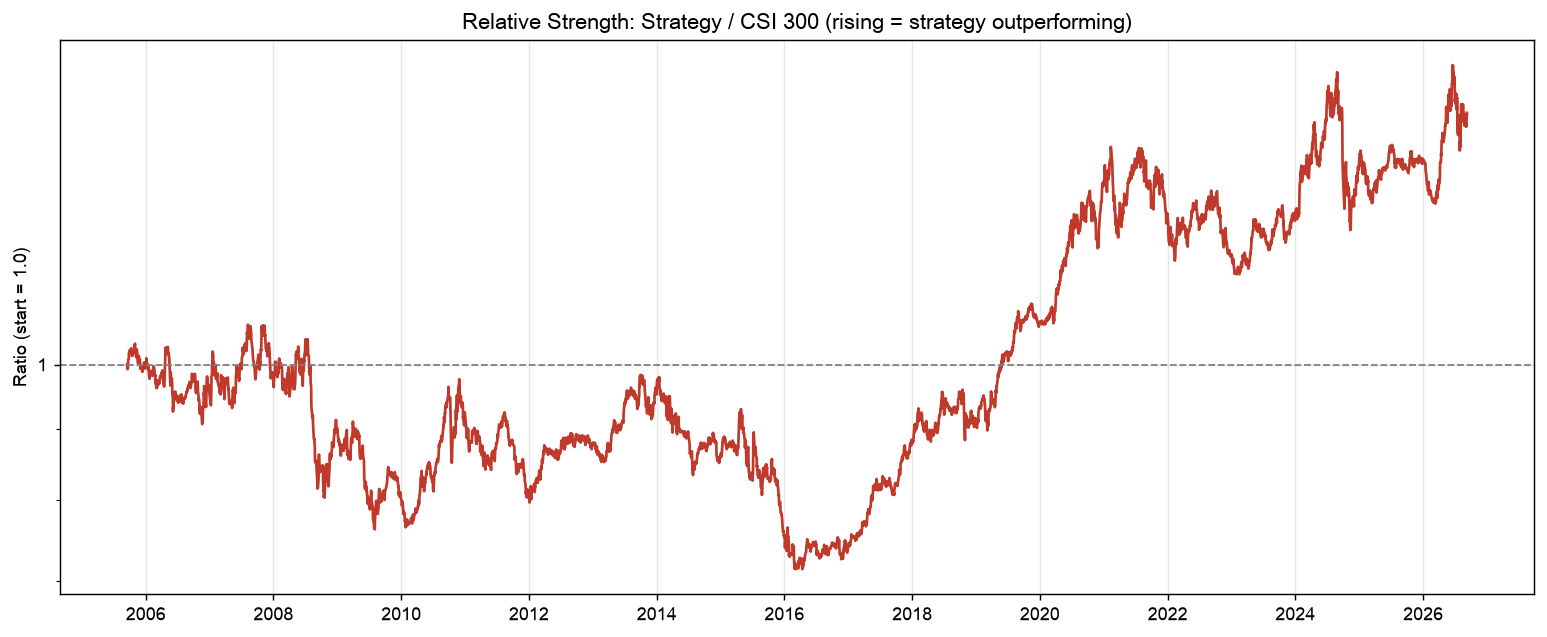
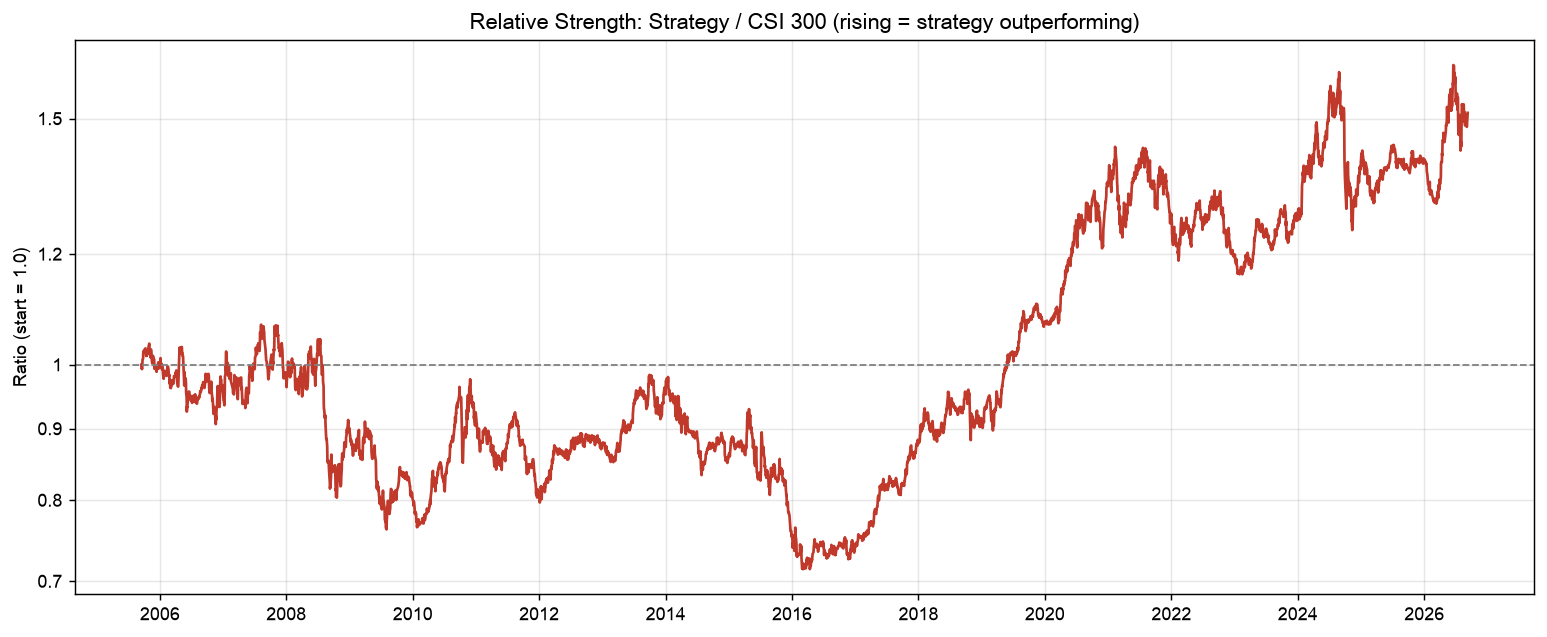
Plain-number log axes on charts; stale per-date outputs cleared per run; report caveats on weights and announcement dates

diff --git a/src/plots.py b/src/plots.py
@@ -87,11 +87,11 @@ def draw_candles(ax, ohlc: pd.DataFrame, title: str, ma: Optional[pd.DataFrame] 
     ax.set_ylabel("Index level")
 
 
-def _plain_log_axis(ax) -> None:
+def _plain_log_axis(ax, minor=(1500, 2000, 3000, 5000, 7000), fmt="{:,.0f}") -> None:
     """Log y-axis with plain numbers (1000, 2000, ...) instead of 10^3 notation."""
     ax.set_yscale("log")
-    ax.yaxis.set_major_formatter(mticker.FuncFormatter(lambda v, _: f"{v:,.0f}"))
-    ax.yaxis.set_minor_formatter(mticker.FuncFormatter(lambda v, _: f"{v:,.0f}" if v in (1500, 2000, 3000, 5000, 7000) else ""))
+    ax.yaxis.set_major_formatter(mticker.FuncFormatter(lambda v, _: fmt.format(v)))
+    ax.yaxis.set_minor_formatter(mticker.FuncFormatter(lambda v, _: fmt.format(v) if any(abs(v - m) < 1e-9 * max(1.0, abs(m)) for m in minor) else ""))
 
 
 def candlestick_chart(ohlc: pd.DataFrame, title: str, path: Path, ma: Optional[pd.DataFrame] = None, log_scale: bool = False) -> Path:
@@ -131,7 +131,7 @@ def growth_of_100(levels: pd.DataFrame, path: Path, log_scale: bool = False, net
     ax.set_ylabel("Growth of ¥100" + (" (log scale)" if log_scale else ""))
     ax.set_xlabel("Date")
     if log_scale:
-        ax.set_yscale("log")
+        _plain_log_axis(ax, minor=(150, 200, 300, 400, 500, 600, 700, 800, 900, 1500, 2000))
     ax.set_title("Growth of ¥100: CSI 300 vs CSI300 S&P Financial Viability + SPMO")
     ax.legend(loc="upper left")
     ax.xaxis.set_major_locator(mdates.YearLocator(2))
@@ -146,7 +146,12 @@ def relative_strength(rs: pd.DataFrame, path: Path) -> Path:
     ax.axhline(1.0, color="grey", linestyle="--", linewidth=1)
     ax.set_title("Relative Strength: Strategy / CSI 300 (rising = strategy outperforming)")
     ax.set_ylabel("Ratio (start = 1.0)")
-    _plain_log_axis(ax)
+    _plain_log_axis(ax, minor=(), fmt="{:g}")
+    lo, hi = float(ratio.min()), float(ratio.max())
+    ticks = [t for t in (0.3, 0.4, 0.5, 0.6, 0.7, 0.8, 0.9, 1.0, 1.2, 1.5, 2.0, 2.5, 3.0, 4.0, 5.0) if lo * 0.97 <= t <= hi * 1.03]
+    ax.set_yticks(ticks)
+    ax.set_yticklabels([f"{t:g}" for t in ticks])
+    ax.yaxis.set_minor_formatter(mticker.NullFormatter())
     ax.xaxis.set_major_locator(mdates.YearLocator(2))
     ax.xaxis.set_major_formatter(mdates.DateFormatter("%Y"))
     return _save(fig, path)
